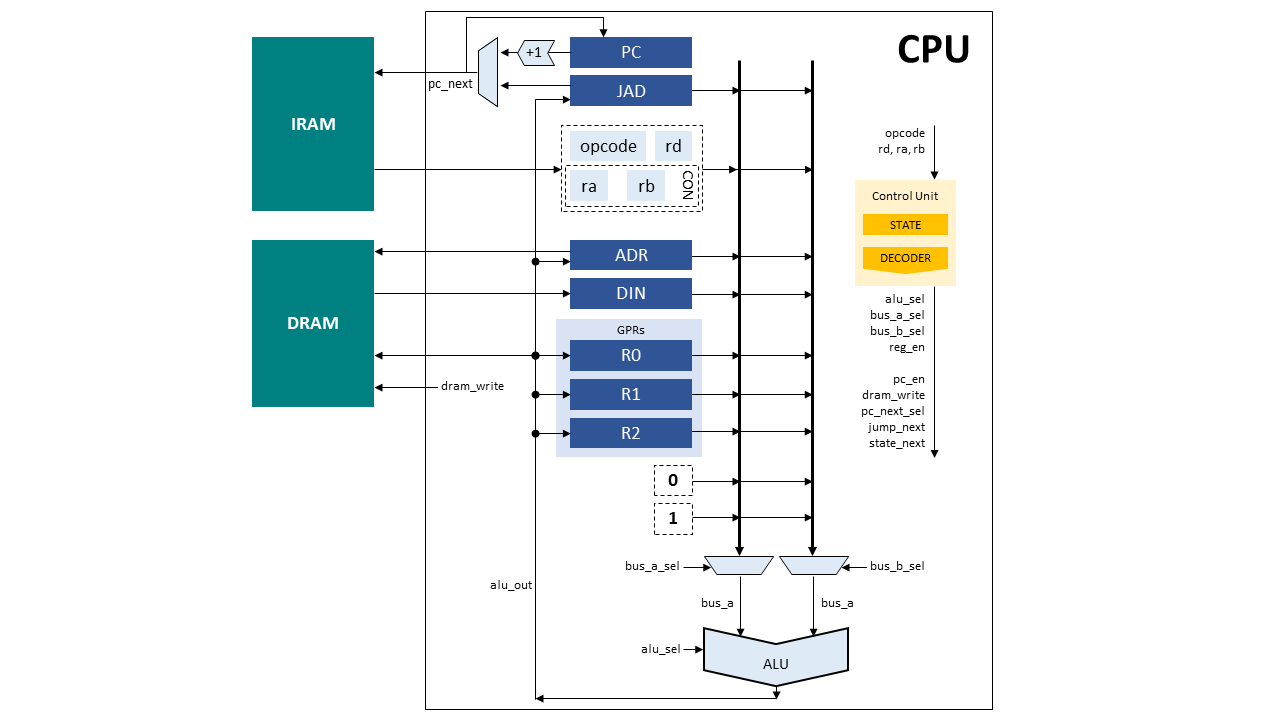
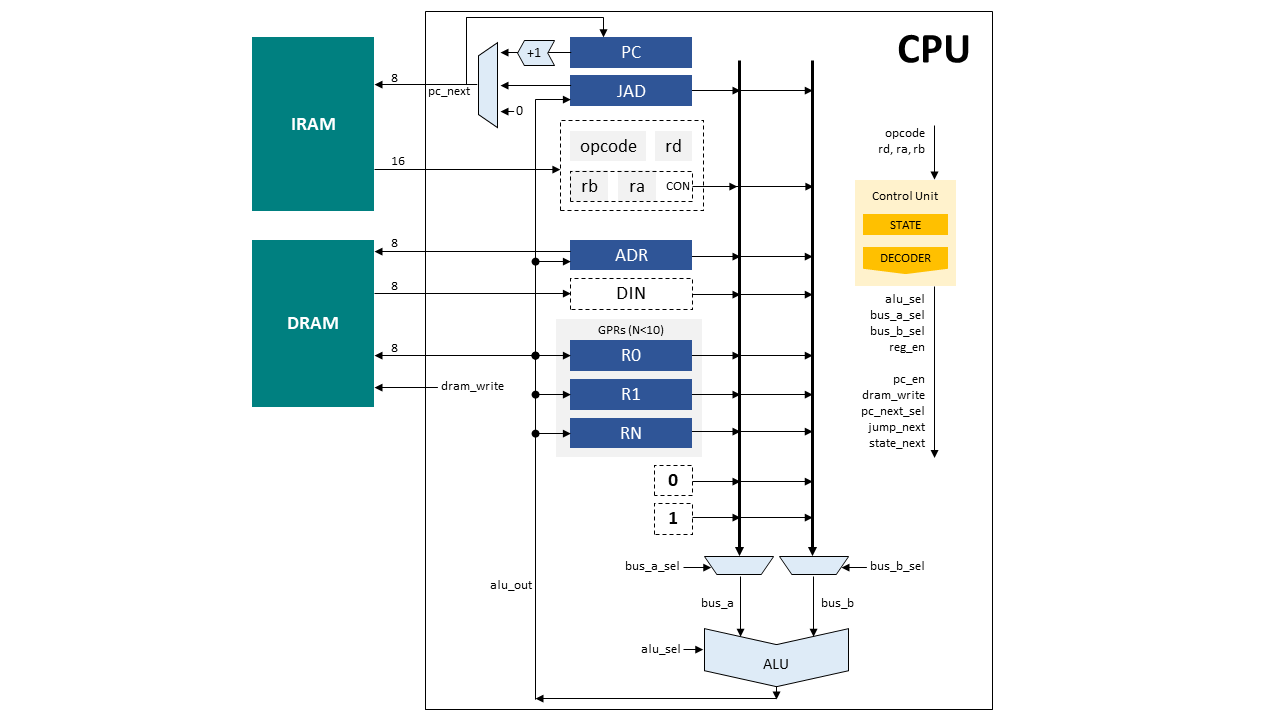
Add comments, whitespace to code

diff --git a/README.md b/README.md
@@ -4,7 +4,7 @@ A-RISC is built as a teaching material, to introduce computer architecture & imp
 
 * Full featured: ability to run any algorithm, such as prime finding, basic image processing...etc.
 * Simple architecture: harvard, 8-bit data & addresses
-* Easy to program: RISC-V like ISA
+* Easy to program: RISC-V-like ISA
 * Contains all components of a processor for teaching: PC, state machine (fetch, decode, execute), ALU, general purpose registers, bus
 * Reduced Instruction Set: Each instruction is 16-bit, does exactly one job in one clock cycle (in cpu v1)
 * Easily pipelinable: Each instruction takes only one clock, can be pipelined later
@@ -44,7 +44,7 @@ The following addressing scheme is used to read from `ra`, `rb` source registers
 * 0    : 0   (constant wire)
 * 1    : 1   (constant wire)
 * 2    : DIN (dout wire of DRAM)
-* 3    : CON (const wire of current instruction, for LDC)
+* 3    : CON (immediate constant: 8-bit wire {rb,ra} of current instruction, for LDC)
 * 4    : ADR (address register for DRAM)
 * 5    : JAD (jump address register for IRAM)
 * 6... : General Purpose Registers
@@ -52,7 +52,7 @@ The following addressing scheme is used to read from `ra`, `rb` source registers
 
 ## Sample Assembly
 
-Sample task: Compute & store the first 10 triangular numbers: `n(n+1)/2 for n<10.`
+To compute & store the first 10 triangular numbers: `n(n+1)/2 for n < 10`.
 
 ### C++
 
@@ -68,15 +68,15 @@ int main() {
 ### Assembly
 
 ```
-Line no.:    Assembly      |      Processor operation     |    Description
+LINE NO.: ASSEMBLY         | PROCESSOR OPERATION          | DESCRIPTION
 
    0    : ldc adr, 0       | ADR    <- 0                  | n = adr = 0      
    1    : ldc r0 , 10      | R0     <- 10                 | N = r0  = 10     
 
    2    : add r1 , adr, 1  | R1     <- ADR + 1            | x = (n+1)        
-   3    : mul r1 , adr, r1 | R1     <- ADR * R1           | x = n(n+1)       
-   4    : dv2 r1 , r1      | R1     <- R1  /2             | x = n(n+1)/2     
-   5    : stm      r1      | M[ADR] <- R1                 | M[n] = n(n+1)/2  
+   3    : mul r1 , adr, r1 | R1     <- ADR * R1           | x = n*(n+1)       
+   4    : dv2 r1 , r1      | R1     <- R1  /2             | x = n*(n+1)/2     
+   5    : stm      r1      | M[ADR] <- R1                 | M[n] = n*(n+1)/2  
    6    : add adr, adr, 1  | ADR    <- ADR + 1            | n += 1           
    7    : ldc jad, 2       | JAD    <- 2                  | load jump-to address (2)
    8    : blt      adr, r0 | branch to JAD if (ADR < R0)  | repeat (2-8) until n=10
